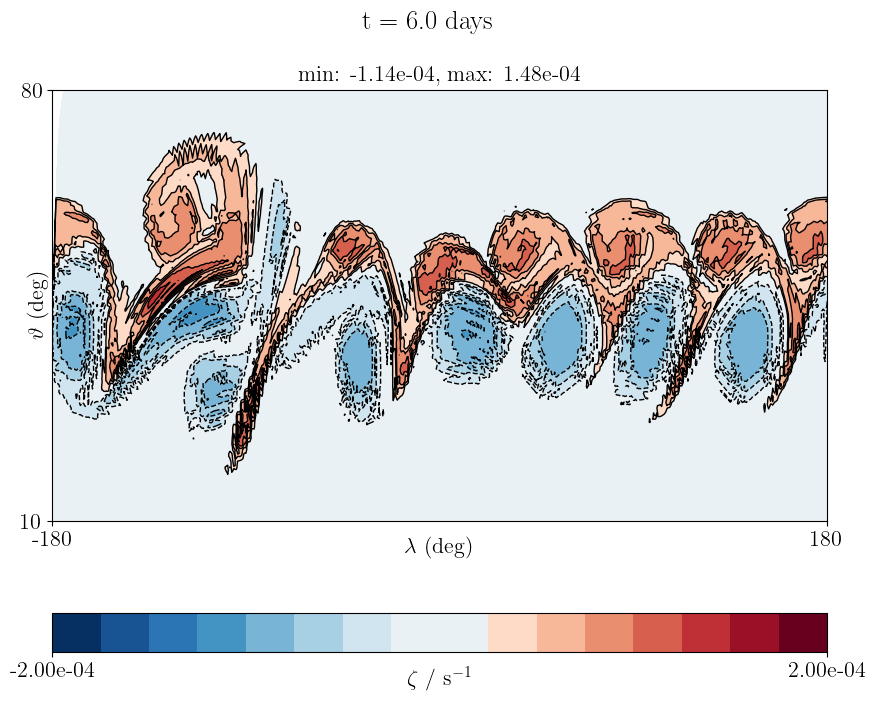
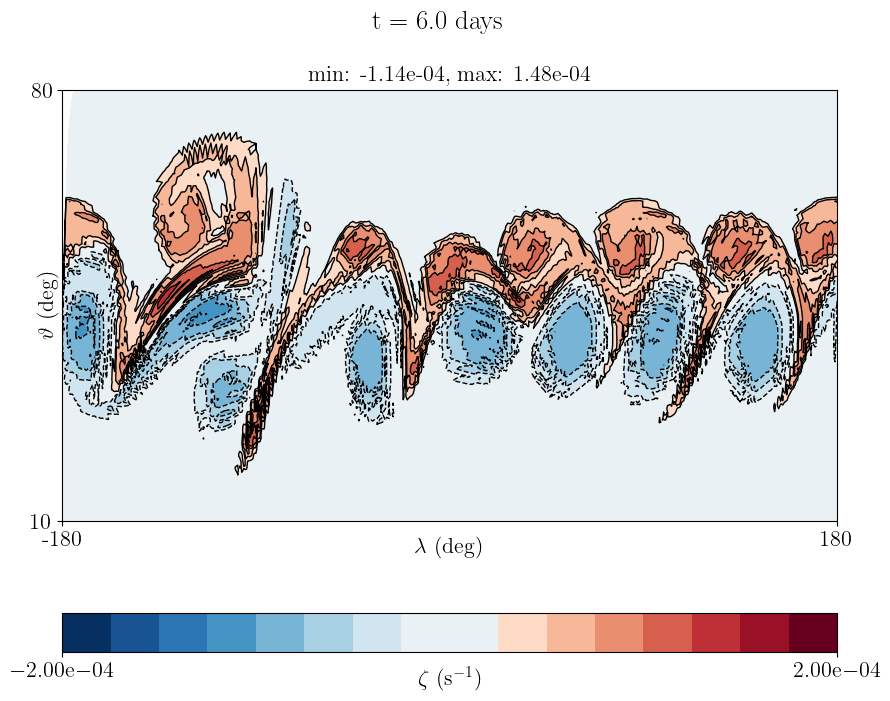
galewsky jet

diff --git a/case_studies/compressible_euler/test_compressible_euler.py b/case_studies/compressible_euler/test_compressible_euler.py
@@ -143,6 +143,7 @@ def test_hyd_switch_skamarock_klemp_hydrostatic():
         hydrostatic=True
     )
 
+
 def test_travelling_vortex_0_1():
     travelling_vortex(
         ncolumns=5,
@@ -155,6 +156,7 @@ def test_travelling_vortex_0_1():
         vorder=1,
         direction='horizontal'
     )
+
 
 def test_travelling_vortex_1_0():
     travelling_vortex(

diff --git a/plotting/shallow_water/plot_galewsky_jet.py b/plotting/shallow_water/plot_galewsky_jet.py
@@ -17,7 +17,7 @@ from tomplot import (
 # When copying this example these paths need editing, which will usually involve
 # removing the abspath part to set directory paths relative to this file
 results_file_name = f'{abspath(dirname(__file__))}/../../results/galewsky_jet/field_output.nc'
-plot_stem = f'{abspath(dirname(__file__))}/../figures/galewsky_jet'
+plot_stem = f'{abspath(dirname(__file__))}/../../figures/shallow_water/galewsky_jet'
 
 # ---------------------------------------------------------------------------- #
 # Initial plot details